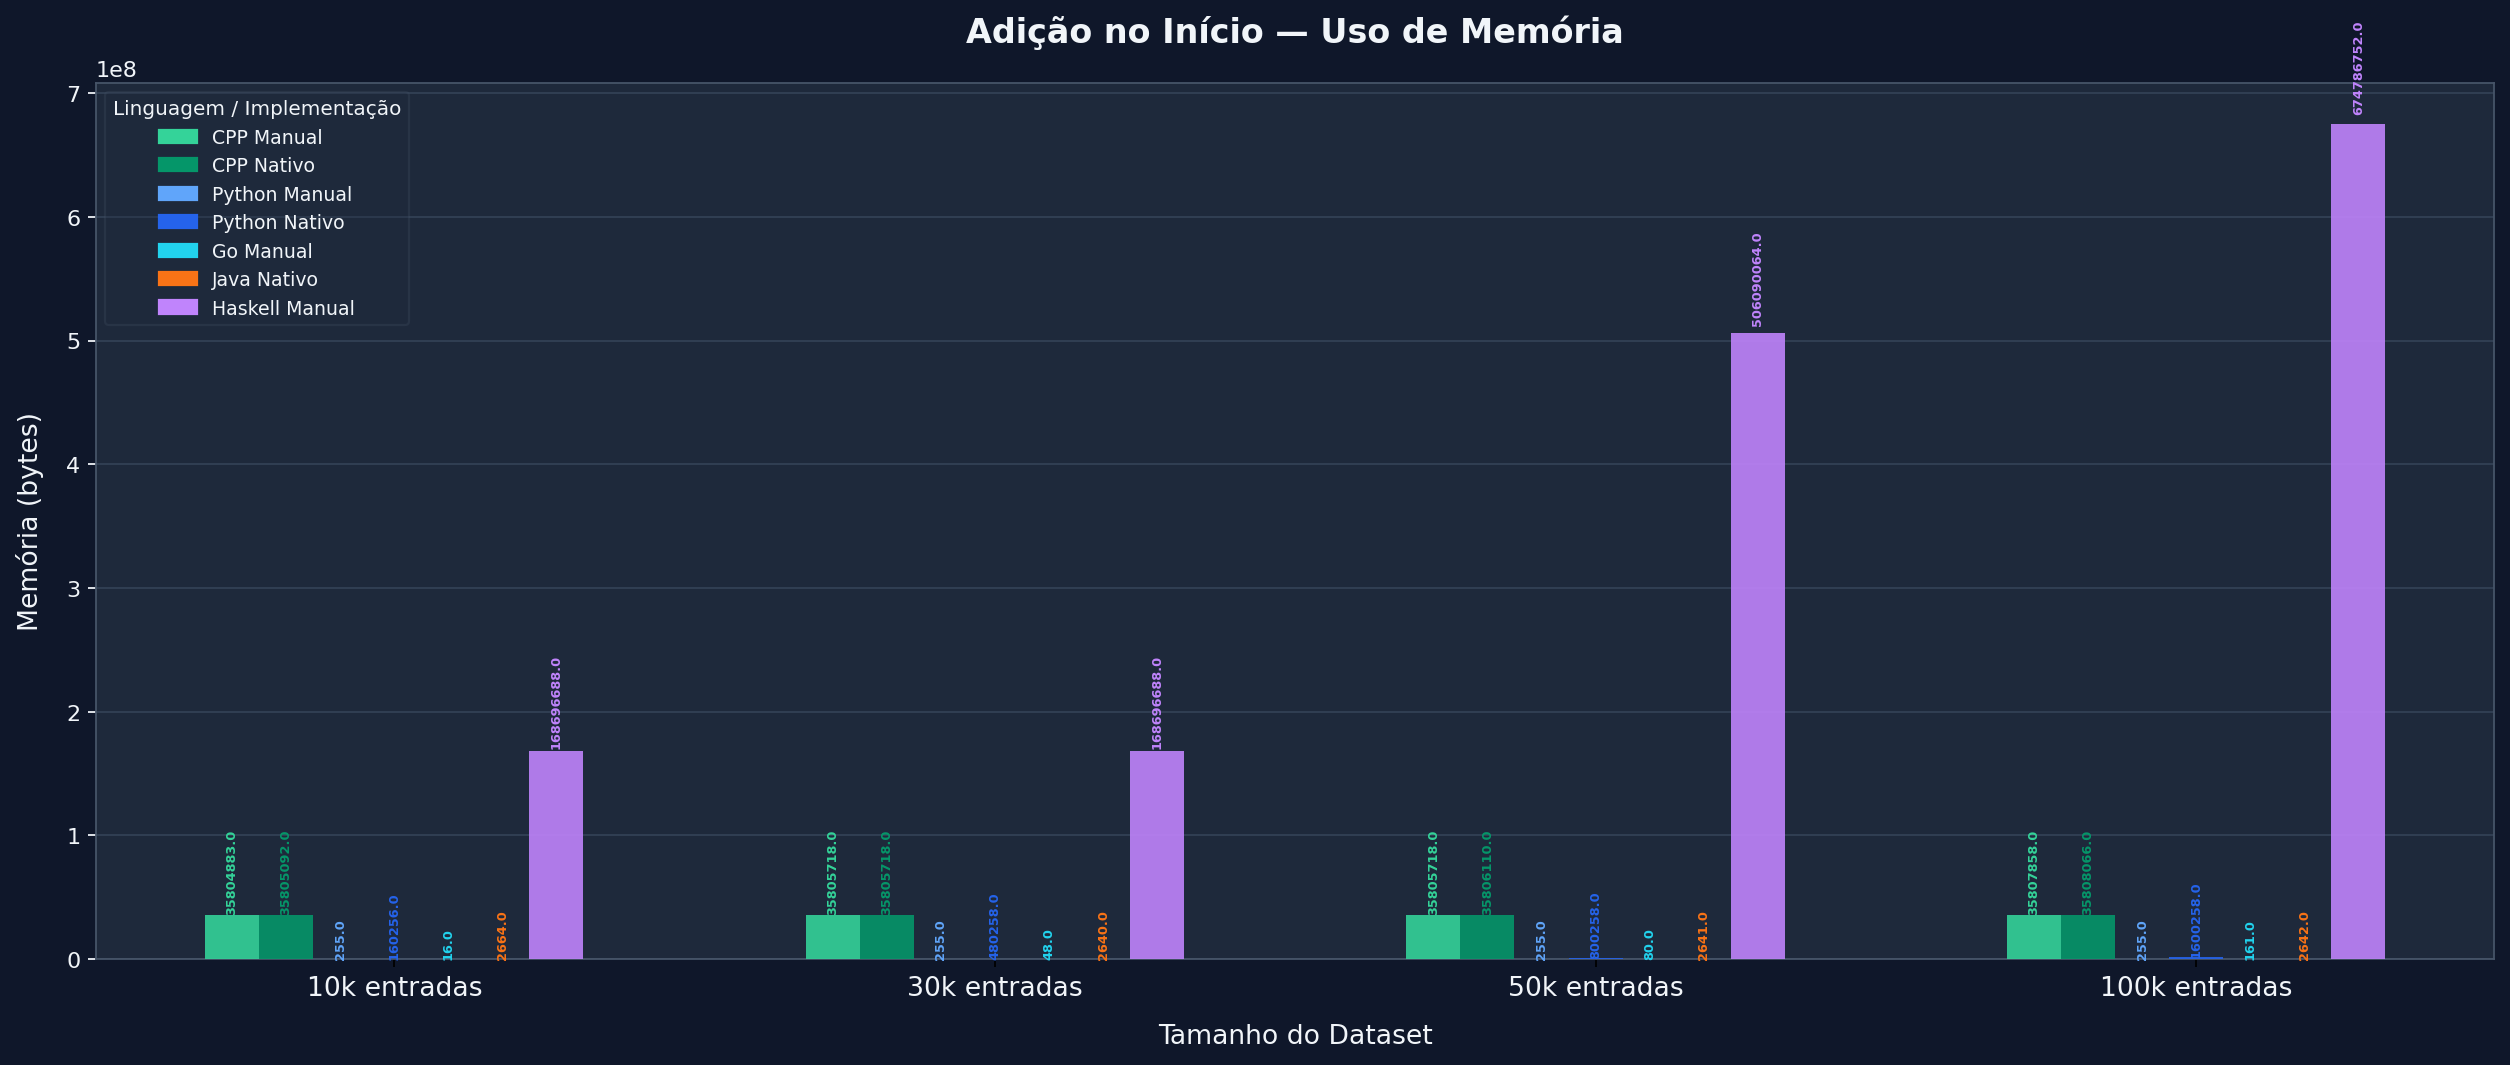
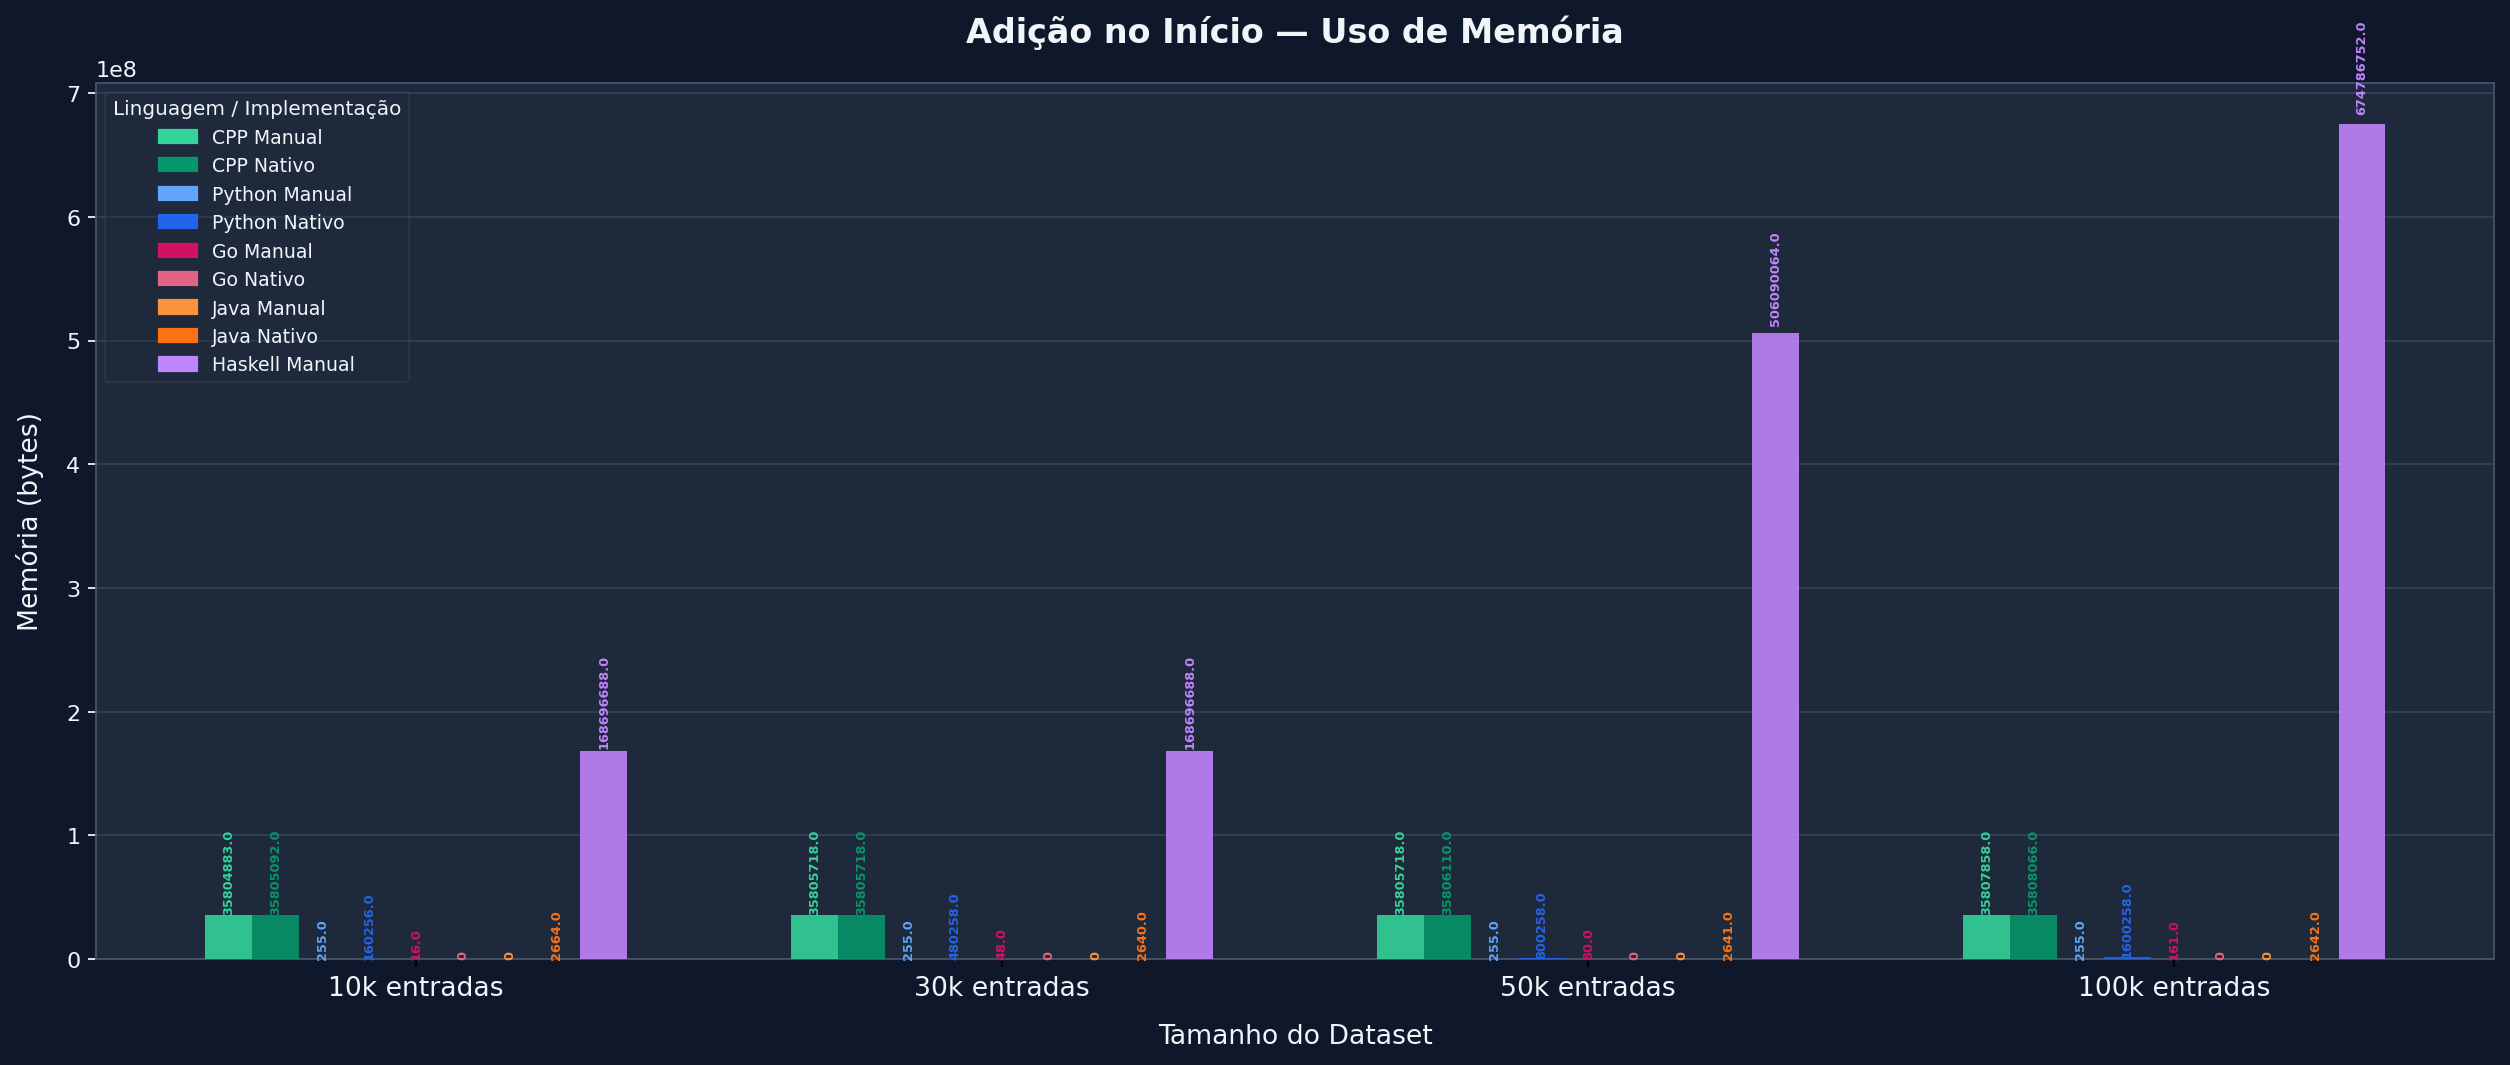
gráficos finalizados

diff --git a/gerar_graficos.py b/gerar_graficos.py
@@ -1,8 +1,8 @@
 """
-Script para gerar gráficos baseados nas benchmarks
-utilizadas no projeto para a comparação da estrutura de dados ArrayList em 
-diferentes linguagens (Python, Go, Haskell, C++ e java).
-Para rodar: python gerar_graficos.py
+Script para gerar gráficos a respeito da comparação
+da estrutura ArrayList (nativo e manual) em diferentes linguagens.
+Os gráficos estão separados consumo de memória(bytes) e tempo(ms),
+e pelos benchmarks utilizados para a comparação de desempenho. 
 """
 
 import os
@@ -11,7 +11,7 @@ import matplotlib.pyplot as plt
 import matplotlib.patches as mpatches
 import numpy as np
 
-#  Caminho para obter os arquivos
+# Caminhos para extrair
 
 ARQUIVOS = {
     "CPP":     "Resultados/Cpp/resultadosC++_medias.csv",
@@ -26,11 +26,11 @@ ARQUIVOS = {
     "Java":    "Resultados/Java/JavaResults.csv",
 }
 
-#  Mapeia qualquer variação encontrada nos CSVs para um nome canônico
+# Normalização de operações
 
 OPERACAO_MAP = {
     "adicaoinicio":  "adicaoInicio",
-    "adicaoindice":  "adicaoInicio",  
+    "adicaoindice":  "adicaoInicio",   
     "busca":         "busca",
     "remocaoindice": "remocaoIndice",
     "remocaovalor":  "remocaoValor",
@@ -47,13 +47,13 @@ TITULOS_OP   = {
 TAMANHOS     = [10000, 30000, 50000, 100000]
 LABELS_TAM   = {10000: "10k", 30000: "30k", 50000: "50k", 100000: "100k"}
 
-#  Escolha de séries e cores
+# Séries e cores
 
 SERIES = [
     "CPP_Manual",    "CPP_Nativo",
     "Python_Manual", "Python_Nativo",
     "Go_Manual",     "Go_Nativo",
-    "Java_Nativo",                    
+    "Java_Manual",   "Java_Nativo",
     "Haskell_Manual",
 ]
 
@@ -62,9 +62,10 @@ CORES = {
     "CPP_Nativo":     "#059669",
     "Python_Manual":  "#60A5FA",
     "Python_Nativo":  "#2563EB",
-    "Go_Manual":      "#22D3EE",
-    "Go_Nativo":      "#0891B2",
-    "Java_Nativo":    "#F97316",      
+    "Go_Manual":      "#D11261",
+    "Go_Nativo":      "#E26484",
+    "Java_Manual":    "#FB923C",
+    "Java_Nativo":    "#F97316",
     "Haskell_Manual": "#C084FC",
 }
 
@@ -75,9 +76,7 @@ ESTILO = {
     "grade":        "#334155",
     "borda_eixos":  "#475569",
 }
-
-#  Normalização
-
+# normalização
 
 def detectar_sep(caminho):
     with open(caminho, "r", encoding="utf-8") as f:
@@ -182,7 +181,7 @@ def carregar_todos():
         raise RuntimeError("Nenhum CSV carregado.")
     return pd.concat(frames, ignore_index=True)
 
-# Extrair valores
+# extração de valores
 
 def extrair_valores(df, operacao, metrica):
     col = "Tempo_ms" if metrica == "tempo" else "Memoria_bytes"
@@ -196,10 +195,10 @@ def extrair_valores(df, operacao, metrica):
         resultado[serie] = vals
     return resultado
 
-#  Plotagem
+# plotar
 
 def plotar(dados, titulo, ylabel, nome_arquivo):
-    series_ativas = [s for s in SERIES if any(v > 0 for v in dados[s])]
+    series_ativas = SERIES
 
     n_grupos = len(TAMANHOS)
     n_barras = len(series_ativas)
@@ -218,8 +217,8 @@ def plotar(dados, titulo, ylabel, nome_arquivo):
                          color=cor, alpha=0.90, zorder=3)
         for barra, val in zip(barras, valores):
             if val == 0:
-                continue
-            if val < 0.001:
+                label = "0"
+            elif val < 0.001:
                 label = f"{val:.2e}"
             elif val < 0.01:
                 label = f"{val:.4f}"
@@ -227,9 +226,10 @@ def plotar(dados, titulo, ylabel, nome_arquivo):
                 label = f"{val:.3f}"
             else:
                 label = f"{val:.1f}"
+            altura = barra.get_height() if val > 0 else 0
             ax.text(
                 barra.get_x() + barra.get_width() / 2,
-                barra.get_height() * 1.012,
+                altura * 1.012 + (0.002 if val == 0 else 0),
                 label,
                 ha="center", va="bottom",
                 fontsize=5.8, color=cor, fontweight="bold", rotation=90,
@@ -258,9 +258,8 @@ def plotar(dados, titulo, ylabel, nome_arquivo):
     plt.savefig(nome_arquivo, dpi=160, bbox_inches="tight",
                 facecolor=ESTILO["fundo_figura"])
     plt.close()
-    print(f"  ✔  {nome_arquivo}")
 
-#  Main
+# main
 
 METRICAS = [
     ("tempo",   "Tempo (ms)"),
